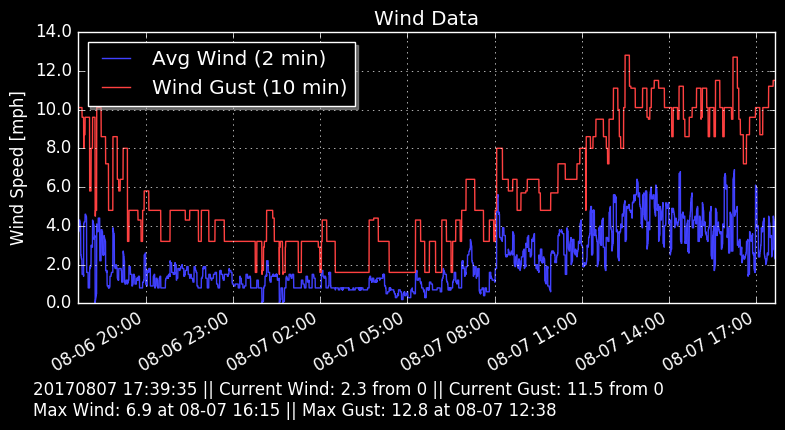
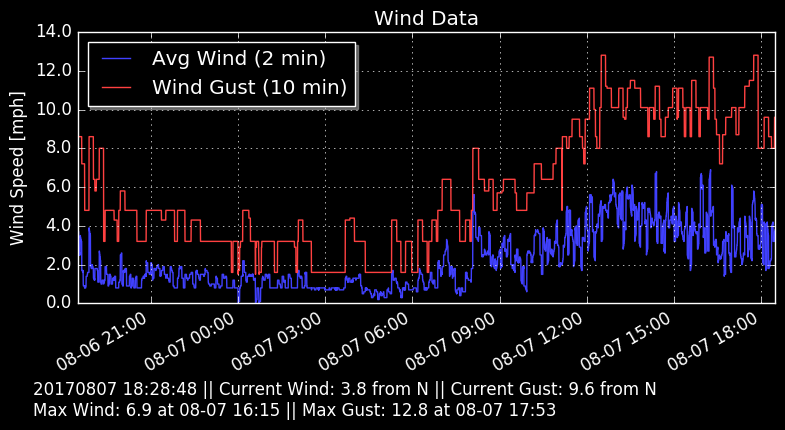
added cardinal direction dictionary to wind

diff --git a/plotWeather.py b/plotWeather.py
@@ -17,7 +17,7 @@ import traceback
 class WeatherPlot():
     def __init__(self):
 	self.wi = WeatherInterface()
-	self.plotTime = 23		#Length of data plot, in hours - DO NOT EXCEED 23
+	self.plotTime = 24		#Length of data plot, in hours - DO NOT EXCEED 24
 
 	self.sensorKeys = [
         'winddir_avg2m',
@@ -38,6 +38,7 @@ class WeatherPlot():
         'windgustdir'
         ]
 
+	self.outDict = {}
 
 	self.date = datetime.datetime.now()
         self.logfile = '/logs/'+datetime.datetime.strftime(self.date, "%Y%m%d")+"-weather.txt"
@@ -116,8 +117,12 @@ class WeatherPlot():
 			del datalist[0]
 
 		# See if the time is past self.plotTime
-		timeCheck = (checktime - timeobj).seconds/(60*60)	# Hours
+		dayCheck = 0.0
+		if (checktime - timeobj).days >= 1:
+		    dayCheck = (checktime - timeobj).days * 24.0
+		timeCheck = ((checktime - timeobj).seconds/(60.0*60.0)) + dayCheck	# Hours
 		#print timeCheck
+
 
 		if timeCheck < self.plotTime and len(datalist) < 1:
 		    print "Opening new log"
@@ -164,6 +169,16 @@ class WeatherPlot():
 	pressure, timestamp = dataDict['pressure'], dataDict['timestamp']
 	pressure = self.convertPressure(pressure)
 
+        ind_min_prs, ind_max_prs = self.minmax(pressure)
+        min_prs, max_prs = float(pressure[ind_min_prs]), float(pressure[ind_max_prs])
+        min_prs_time, max_prs_time = timestamp[ind_min_prs], timestamp[ind_max_prs]
+
+	self.outDict["pressure"] = "%.5f"%pressure[0]
+	self.outDict["minPrs"] = "%.5f"%min_prs
+	self.outDict["minPrsTime"] = min_prs_time.strftime("%m-%d %H:%M")
+	self.outDict["maxPrs"] = "%.5f"%max_prs
+	self.outDict["maxPrsTime"] = max_prs_time.strftime("%m-%d %H:%M")
+
 	stp = 0.964739		#Calculated for elev = 990 ft
 
 	stpList = []
@@ -185,10 +200,6 @@ class WeatherPlot():
         #ax.set_axis_bgcolor('black')
         plt.gcf().autofmt_xdate()       #Make dates look pretty in plot
 
-	ind_min_prs, ind_max_prs = self.minmax(pressure)
-        min_prs, max_prs = float(pressure[ind_min_prs]), float(pressure[ind_max_prs])
-        min_prs_time, max_prs_time = timestamp[ind_min_prs], timestamp[ind_max_prs]
-
         minTimeStr = min_prs_time.strftime('%m-%d %H:%M')
         maxTimeStr = max_prs_time.strftime('%m-%d %H:%M')
         minmaxText = timestamp[0].strftime('%Y%m%d %H:%M:%S')+" || Current: %.5f \nLow: %.5f at %s || High: %.5f at %s" % (float(pressure[0]), min_prs, minTimeStr, max_prs, maxTimeStr)
@@ -204,6 +215,19 @@ class WeatherPlot():
     def plotHumidity(self, dataDict):
 	humidity, timestamp = dataDict['humidity'], dataDict['timestamp']
 
+        ind_min_hum, ind_max_hum = self.minmax(humidity)
+        min_hum, max_hum = float(humidity[ind_min_hum]), float(humidity[ind_max_hum])
+        min_hum_time, max_hum_time = timestamp[ind_min_hum], timestamp[ind_max_hum]
+
+        minTimeStr = min_hum_time.strftime('%m-%d %H:%M')
+        maxTimeStr = max_hum_time.strftime('%m-%d %H:%M')
+
+	self.outDict["humidity"] = humidity[0]
+	self.outDict["minHum"] = min_hum
+	self.outDict["minHumTime"] = minTimeStr
+	self.outDict["maxHum"] = max_hum
+	self.outDict["maxHumTime"] = maxTimeStr
+
         fig,ax=plt.subplots(1)
         fig.set_size_inches(8,4)
         ax.set_ylabel('Humidity [%]')
@@ -217,12 +241,6 @@ class WeatherPlot():
         #ax.set_axis_bgcolor('black')
         plt.gcf().autofmt_xdate()       #Make dates look pretty in plot
 
-	ind_min_hum, ind_max_hum = self.minmax(humidity)
-	min_hum, max_hum = float(humidity[ind_min_hum]), float(humidity[ind_max_hum])
-	min_hum_time, max_hum_time = timestamp[ind_min_hum], timestamp[ind_max_hum]
-
-	minTimeStr = min_hum_time.strftime('%m-%d %H:%M')
-        maxTimeStr = max_hum_time.strftime('%m-%d %H:%M')
         minmaxText = timestamp[0].strftime('%Y%m%d %H:%M:%S')+" || Current: %.1f \nLow: %.1f at %s || High: %.1f at %s" % (float(humidity[0]), min_hum, minTimeStr, max_hum, maxTimeStr)
         fig.text(0.05, -0.06, minmaxText)
 
@@ -237,7 +255,36 @@ class WeatherPlot():
 
     def plotWind(self, dataDict):
 
-        windavg2m, windgust10m, timestamps = dataDict['windspdmph_avg2m'], dataDict['windgustmph_10m'], dataDict['timestamp']
+        windavg2m, windgust10mL, timestamps = dataDict['windspdmph_avg2m'], dataDict['windgustmph_10m'], dataDict['timestamp']
+
+	self.outDict["timestamp"] = timestamps[0].strftime("%Y%m%d %H:%M:%S")
+
+	windgust10m = []
+	windgust10m = [float(i) for i in windgust10mL]
+        index_maxGust = self.minmax(windgust10m)[1]
+	maxGust = max(windgust10m)
+	self.outDict["maxGust"] = maxGust
+        maxGustTime = timestamps[index_maxGust].strftime('%m-%d %H:%M')
+        self.outDict["maxGustTime"] = maxGustTime
+	maxGustDir = float(dataDict['windgustdir'][index_maxGust])
+
+        index_maxWind = self.minmax(windavg2m)[1]
+        maxWind = float(windavg2m[index_maxWind])
+        self.outDict["maxWind"] = maxWind
+	maxWindTime = timestamps[index_maxWind].strftime('%m-%d %H:%M')
+        self.outDict["maxWindTime"] = maxWindTime
+	maxWindDir = float(dataDict['winddir'][index_maxWind])
+	self.outDict["maxWindDir"] = maxWindDir
+
+        currentWind = float(windavg2m[0])
+        self.outDict["wind"] = currentWind
+	currentGust = float(windgust10m[0])
+	self.outDict["windGust"] = currentGust
+        currentDir = float(dataDict['winddir'][0])
+        self.outDict["windDir"] = currentDir
+	currentGustDir = float(dataDict['windgustdir'][0])
+	self.outDict["windGustDir"] = currentGustDir
+
 
         fig,ax=plt.subplots(1)
         fig.set_size_inches(8,4)
@@ -246,31 +293,6 @@ class WeatherPlot():
 
         ax.plot(timestamps, windavg2m, 'y-', label='Avg Wind (2 min)')
         ax.plot(timestamps, windgust10m, 'c-', label='Wind Gust (10 min)')
-
-	'''
-	ax.annotate('Max Gust = %.1f [MPH]\n%s' % (windgust10m[index_gust_max], gusttimestamps[index_gust_max].strftime('%H:%M')),
-	xy=(gusttimestamps[index_gust_max], windgust10m[index_gust_max]),
-	xytext=(gusttimestamps[index_gust_max], windgust10m[index_gust_max]*0.7), #, textcoords='offset pixels',
-	bbox = dict(boxstyle='round', fc='black', fill=False),
-        horizontalalignment='center',
-        verticalalignment='bottom',
-	arrowprops=dict(facecolor='white', shrink=0.1, fill=True))
-        '''
-
-	index_maxGust = self.minmax(windgust10m)[1]
-	maxGust = float(windgust10m[index_maxGust])
-	maxGustTime = timestamps[index_maxGust].strftime('%m-%d %H:%M')
-	maxGustDir = float(dataDict['windgustdir'][index_maxGust])
-
-	index_maxWind = self.minmax(windavg2m)[1]
-        maxWind = float(windavg2m[index_maxWind])
-        maxWindTime = timestamps[index_maxWind].strftime('%m-%d %H:%M')
-        maxWindDir = float(dataDict['winddir'][index_maxWind])
-
-        currentWind = float(windavg2m[0])
-	currentGust = float(windgust10m[0])
-	currentDir = float(dataDict['winddir'][0])
-	currentGustDir = float(dataDict['windgustdir'][0])
 
 	minmaxText = timestamps[0].strftime('%Y%m%d %H:%M:%S')+" || Current Wind: %.1f from %.0f || Current Gust: %.1f from %.0f \nMax Wind: %.1f at %s || Max Gust: %.1f at %s" % (currentWind, currentDir, currentGust, currentGustDir, maxWind, maxWindTime, maxGust, maxGustTime)
         fig.text(0.05, -0.06, minmaxText)
@@ -295,6 +317,16 @@ class WeatherPlot():
 	index_temp_min, index_temp_max = self.minmax(tempfs)
 	minTemp, maxTemp = float(tempfs[index_temp_min]), float(tempfs[index_temp_max])
 	minTime, maxTime = timestamps[index_temp_min], timestamps[index_temp_max]
+
+        minTimeStr = minTime.strftime('%m-%d %H:%M')
+        maxTimeStr = maxTime.strftime('%m-%d %H:%M')
+
+	self.outDict["tempf"] = tempfs[0]
+	self.outDict["dewpoint"] = dewpoints[0]
+	self.outDict["temp_max"] = maxTemp
+	self.outDict["temp_max_time"] = maxTimeStr
+	self.outDict["temp_min"] = minTemp
+	self.outDict["temp_min_time"] = minTimeStr
 
         fig,ax=plt.subplots(1)
         fig.set_size_inches(8,4)
@@ -323,8 +355,6 @@ class WeatherPlot():
         arrowprops=dict(facecolor='white', shrink=0.2, fill=True))
 	'''
 
-	minTimeStr = minTime.strftime('%m-%d %H:%M')
-	maxTimeStr = maxTime.strftime('%m-%d %H:%M')
 	currentTemp = float(tempfs[0])
 	minmaxText = timestamps[0].strftime('%Y%m%d %H:%M:%S')+" || Current Temp: %.1f || Current Dewpoint: %.1f \nLow: %.1f at %s || High: %.1f at %s" % (currentTemp, float(dewpoints[0]), minTemp, minTimeStr, maxTemp, maxTimeStr)
 	fig.text(0.05, -0.06, minmaxText)
@@ -341,6 +371,18 @@ class WeatherPlot():
         plt.close('all')
 	plt.clf()
         return
+
+    def liveDataOut(self):
+	outString = ""
+	for key, value in self.outDict.iteritems():
+	    outString = outString + str(key) + "=" + str(value) + ","
+	outString = outString[:-1]
+	#print outString
+	directory = str(os.getcwd())+"/live.txt"
+        f_out = open(directory,'w')
+        f_out.write(outString)
+        f_out.close()
+	return
 
     def upload(self, sensorname):
         image = Image.open(os.getcwd()+'/'+sensorname+'.png')
@@ -395,8 +437,9 @@ class WeatherPlot():
 	    self.upload('humidity')
 	except Exception as e:
 	    print 'Exception:'+str(e)
-
-	shutil.copy(os.getcwd()+'/live.txt', '/var/www/cgi-bin/live.txt')
+	self.liveDataOut()
+	shutil.copy(os.getcwd()+'/live.txt', '/var/www/html/live.txt')
+	self.outDict = {}
 
 	self.checkDay(self.logfile)
 	return currentTime

diff --git a/plotWeather_test.py b/plotWeather_test.py
@@ -38,6 +38,18 @@ class WeatherPlot():
         'windgustdir'
         ]
 
+	self.windOffset = 0.0
+	self.windDirDict = {
+	'N': [0.0, 45.0],
+	'NE': [45.0, 90.0],
+	'E': [90.0, 135.0],
+	'SE': [135.0, 180.0],
+	'S': [180.0, 225.0],
+	'SW': [225.0, 270.0],
+	'W': [270.0, 315.0],
+	'NW': [315.0, 360.0]
+	}
+
 	self.outDict = {}
 
 	self.date = datetime.datetime.now()
@@ -234,6 +246,7 @@ class WeatherPlot():
         ax.set_title('Humidity')
 
         ax.plot(timestamp, humidity, 'm-')
+
         majorFormatter = mpl.dates.DateFormatter('%m-%d %H:%M')
         ax.xaxis.set_major_formatter(majorFormatter)
         ax.yaxis.set_major_formatter(FormatStrFormatter('%.1f'))
@@ -251,7 +264,11 @@ class WeatherPlot():
         plt.close('all')
         return
 
-
+    def windDirection(self, degree):
+	windDirection = (float(degree) + self.windOffset) % 360.0
+	for key, list in self.windDirDict.iteritems():
+	    if windDirection >= list[0] and windDirection < list[1]:
+	        return key
 
     def plotWind(self, dataDict):
 
@@ -266,23 +283,23 @@ class WeatherPlot():
 	self.outDict["maxGust"] = maxGust
         maxGustTime = timestamps[index_maxGust].strftime('%m-%d %H:%M')
         self.outDict["maxGustTime"] = maxGustTime
-	maxGustDir = float(dataDict['windgustdir'][index_maxGust])
+	maxGustDir = self.windDirection(float(dataDict['windgustdir'][index_maxGust]))
 
         index_maxWind = self.minmax(windavg2m)[1]
         maxWind = float(windavg2m[index_maxWind])
         self.outDict["maxWind"] = maxWind
 	maxWindTime = timestamps[index_maxWind].strftime('%m-%d %H:%M')
         self.outDict["maxWindTime"] = maxWindTime
-	maxWindDir = float(dataDict['winddir'][index_maxWind])
+	maxWindDir = self.windDirection(float(dataDict['winddir'][index_maxWind]))
 	self.outDict["maxWindDir"] = maxWindDir
 
         currentWind = float(windavg2m[0])
         self.outDict["wind"] = currentWind
 	currentGust = float(windgust10m[0])
 	self.outDict["windGust"] = currentGust
-        currentDir = float(dataDict['winddir'][0])
+        currentDir = self.windDirection(float(dataDict['winddir'][0]))
         self.outDict["windDir"] = currentDir
-	currentGustDir = float(dataDict['windgustdir'][0])
+	currentGustDir = self.windDirection(float(dataDict['windgustdir'][0]))
 	self.outDict["windGustDir"] = currentGustDir
 
 
@@ -294,7 +311,7 @@ class WeatherPlot():
         ax.plot(timestamps, windavg2m, 'y-', label='Avg Wind (2 min)')
         ax.plot(timestamps, windgust10m, 'c-', label='Wind Gust (10 min)')
 
-	minmaxText = timestamps[0].strftime('%Y%m%d %H:%M:%S')+" || Current Wind: %.1f from %.0f || Current Gust: %.1f from %.0f \nMax Wind: %.1f at %s || Max Gust: %.1f at %s" % (currentWind, currentDir, currentGust, currentGustDir, maxWind, maxWindTime, maxGust, maxGustTime)
+	minmaxText = timestamps[0].strftime('%Y%m%d %H:%M:%S')+" || Current Wind: %.1f from %s || Current Gust: %.1f from %s \nMax Wind: %.1f at %s || Max Gust: %.1f at %s" % (currentWind, currentDir, currentGust, currentGustDir, maxWind, maxWindTime, maxGust, maxGustTime)
         fig.text(0.05, -0.06, minmaxText)
 
 	majorFormatter = mpl.dates.DateFormatter('%m-%d %H:%M')
@@ -336,24 +353,6 @@ class WeatherPlot():
 
         ax.plot(timestamps, dewpoints, 'y-', label='Dewpoint [F]')
         ax.plot(timestamps, tempfs, 'c-', label='Temp [F]')
-
-	'''
-        ax.annotate('Max Temp = %.1f [F]\n%s' % (tempfs[index_temp_max], timestamps[index_temp_max].strftime('%H:%M')),
-        xy=(timestamps[index_temp_max], tempfs[index_temp_max]),
-        xytext=(timestamps[index_temp_max], tempfs[index_temp_max]*0.8), #textcoords='offset pixels',
-	bbox = dict(boxstyle='round', fc='black', fill=False),
-        horizontalalignment='center',
-        verticalalignment='bottom',
-        arrowprops=dict(facecolor='white', shrink=0.2, fill=True))
-
-	ax.annotate('Min Temp = %.1f [F]\n%s' % (tempfs[index_temp_min], timestamps[index_temp_min].strftime('%H:%M')),
-        xy=(timestamps[index_temp_min], tempfs[index_temp_min]),
-        xytext=(timestamps[index_temp_min], tempfs[index_temp_min]*1.2), #textcoords='offset pixels',
-	bbox = dict(boxstyle='round', fc='black', fill=False),
-        horizontalalignment='right',
-        verticalalignment='bottom',
-        arrowprops=dict(facecolor='white', shrink=0.2, fill=True))
-	'''
 
 	currentTemp = float(tempfs[0])
 	minmaxText = timestamps[0].strftime('%Y%m%d %H:%M:%S')+" || Current Temp: %.1f || Current Dewpoint: %.1f \nLow: %.1f at %s || High: %.1f at %s" % (currentTemp, float(dewpoints[0]), minTemp, minTimeStr, maxTemp, maxTimeStr)
